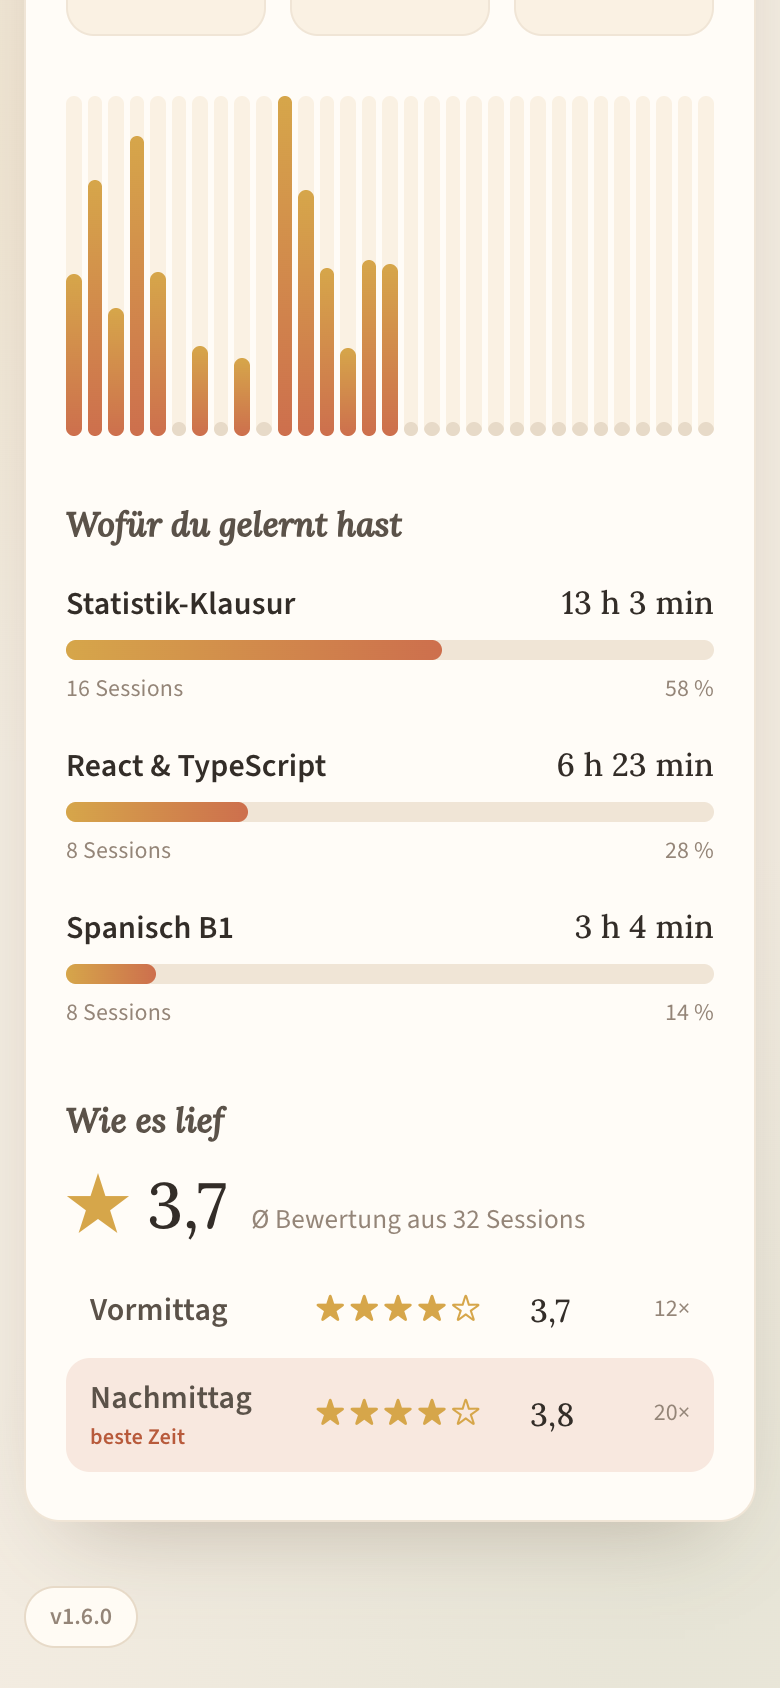
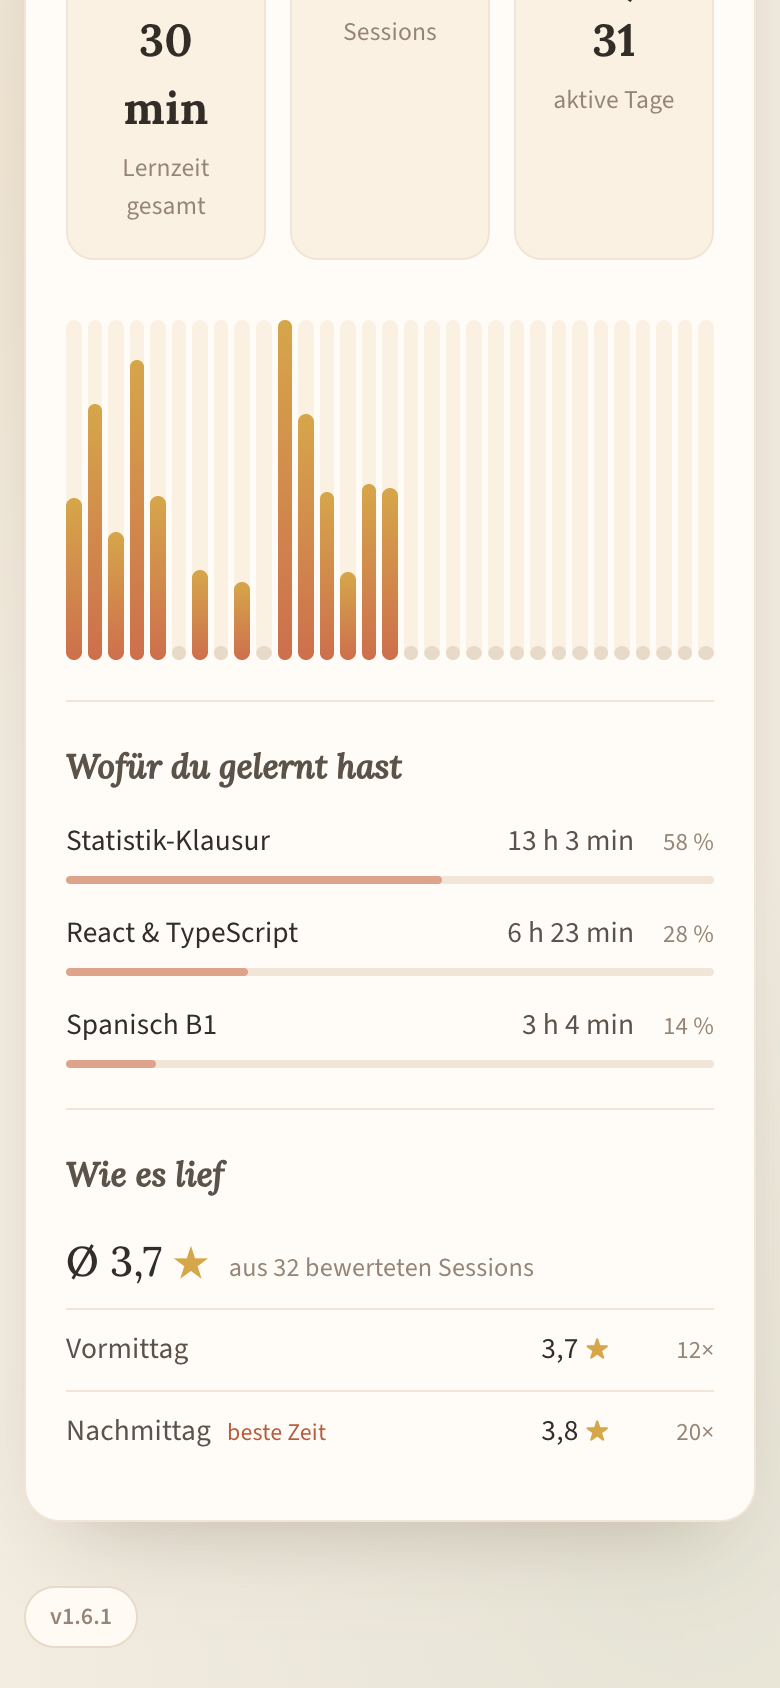
style: v1.6.1 – Statistik unten ruhiger, gleiche Breite in Woche und Monat
- "Wofür du gelernt hast": eine Zeile pro Projekt (Name, Zeit, Anteil in
  Grau), darunter ein 4-px-Balken in gedämpftem Akzent statt 10-px-Verlauf;
  Sessions-Anzahl nur noch im Tooltip.
- "Wie es lief": Ø-Wert in normaler Größe, Tageszeiten als schlichte Liste
  mit Haarlinien, ein kleiner Stern pro Zeile statt fünf, keine farbige
  Fläche mehr für die beste Zeit.
- Beide Abschnitte durch eine feine Linie abgesetzt.
- Fix: .stats-card hat eine feste Breite (760 px, max. 100 %). Vorher
  richtete sie sich nach dem Inhalt und sprang beim Wechsel Woche/Monat
  (555 ↔ 539 px auf Desktop/Tablet).

diff --git a/frontend/src/style.css b/frontend/src/style.css
@@ -779,9 +779,22 @@ button.danger:hover { color: #93362b; }
 .break-card .progress-ring-content .ring-time { color: var(--break-accent); }
 
 /* Stats view */
-.stats-card { max-width: 760px; }
+/* Feste Breite statt "so breit wie der Inhalt": sonst ist die Karte in Wochen-
+   und Monatsansicht unterschiedlich breit und springt beim Umschalten. Auf
+   schmalen Screens begrenzt max-width auf die verfügbare Breite. */
+.stats-card { width: 760px; max-width: 100%; }
+
+/* Untere Abschnitte bewusst ruhig: eine gedämpfte Akzentfarbe, dünne Linien,
+   keine Flächen — die Zahlen sollen sprechen, nicht die Deko */
+.stats-section {
+  display: flex;
+  flex-direction: column;
+  gap: 14px;
+  padding-top: 20px;
+  border-top: 1px solid var(--border-soft);
+}
 .stats-section-heading {
-  margin: 12px 0 -6px;
+  margin: 0;
   font-family: var(--serif);
   font-style: italic;
   font-size: 1.05rem;
@@ -790,37 +803,37 @@ button.danger:hover { color: #93362b; }
 }
 
 /* Statistik: Lernzeit pro Projekt */
-.project-breakdown { list-style: none; margin: 0; padding: 0; display: flex; flex-direction: column; gap: 16px; }
+.project-breakdown { list-style: none; margin: 0; padding: 0; display: flex; flex-direction: column; gap: 14px; }
 .project-breakdown li { display: flex; flex-direction: column; gap: 6px; }
-.breakdown-head { display: flex; justify-content: space-between; align-items: baseline; gap: 12px; }
-.breakdown-name { font-weight: 600; color: var(--text); min-width: 0; }
-.breakdown-tag { margin-left: 8px; font-size: 0.72rem; font-weight: 500; color: var(--muted); }
-.breakdown-time { font-family: var(--serif); color: var(--text); white-space: nowrap; }
-.breakdown-track { height: 10px; border-radius: 999px; background: var(--border-soft); overflow: hidden; }
-.breakdown-bar { height: 100%; border-radius: inherit; background: linear-gradient(90deg, var(--gold), var(--accent)); }
-.breakdown-meta { display: flex; justify-content: space-between; font-size: 0.75rem; color: var(--muted); }
+.breakdown-head { display: flex; justify-content: space-between; align-items: baseline; gap: 12px; font-size: 0.92rem; }
+.breakdown-name { color: var(--text); min-width: 0; overflow: hidden; text-overflow: ellipsis; white-space: nowrap; }
+.breakdown-tag { margin-left: 6px; font-size: 0.72rem; color: var(--muted); }
+.breakdown-time { color: var(--text-soft); white-space: nowrap; font-variant-numeric: tabular-nums; }
+.breakdown-share { display: inline-block; min-width: 3.2em; text-align: right; font-size: 0.78rem; color: var(--muted); }
+.breakdown-track { height: 4px; border-radius: 999px; background: var(--border-soft); overflow: hidden; }
+.breakdown-bar { height: 100%; border-radius: inherit; background: rgba(205, 111, 77, 0.55); }
 
 /* Statistik: Auswertung der Sterne-Bewertungen */
-.rating-block { display: flex; flex-direction: column; gap: 14px; }
-.rating-summary { display: flex; align-items: baseline; flex-wrap: wrap; gap: 4px 12px; }
-.rating-value { font-family: var(--serif); font-size: 2rem; line-height: 1; color: var(--text); }
-.rating-star { color: var(--gold); }
-.rating-caption { color: var(--muted); font-size: 0.85rem; }
-.rating-daytimes { list-style: none; margin: 0; padding: 0; display: flex; flex-direction: column; gap: 4px; }
+.rating-block { display: flex; flex-direction: column; gap: 8px; }
+.rating-summary { margin: 0; display: flex; align-items: baseline; flex-wrap: wrap; gap: 2px 10px; }
+.rating-value { font-family: var(--serif); font-size: 1.3rem; color: var(--text); }
+.rating-star { color: var(--gold); font-size: 0.85em; }
+.rating-caption { color: var(--muted); font-size: 0.82rem; }
+.rating-daytimes { list-style: none; margin: 0; padding: 0; display: flex; flex-direction: column; }
 .rating-daytimes li {
   display: grid;
-  /* feste Spalten, damit Sterne/Wert/Anzahl über alle Zeilen bündig stehen */
-  grid-template-columns: minmax(0, 1fr) 96px 32px 36px;
-  align-items: center;
+  /* feste Spalten, damit Wert und Anzahl über alle Zeilen bündig stehen */
+  grid-template-columns: minmax(0, 1fr) 64px 40px;
+  align-items: baseline;
   gap: 12px;
-  padding: 8px 12px;
-  border-radius: 12px;
+  padding: 9px 0;
+  border-top: 1px solid var(--border-soft);
+  font-size: 0.92rem;
 }
-.rating-daytimes li.best { background: var(--accent-soft); }
-.rating-daytime-label { font-weight: 600; color: var(--text-soft); }
-.rating-daytime-value { font-family: var(--serif); color: var(--text); }
-.rating-best { display: block; font-size: 0.7rem; font-weight: 600; color: var(--accent-strong); }
-.rating-daytime-count { text-align: right; font-size: 0.75rem; color: var(--muted); white-space: nowrap; }
+.rating-daytime-label { color: var(--text-soft); }
+.rating-best { margin-left: 8px; font-size: 0.75rem; color: var(--accent-strong); }
+.rating-daytime-value { text-align: right; color: var(--text); font-variant-numeric: tabular-nums; }
+.rating-daytime-count { text-align: right; font-size: 0.78rem; color: var(--muted); }
 .period-toggle { display: flex; gap: 10px; }
 .period-toggle button { flex: 1; }
 

diff --git a/frontend/src/components/StatsView.jsx b/frontend/src/components/StatsView.jsx
@@ -34,12 +34,8 @@ const periodLabel = (period, days) => {
 
 const formatRating = (value) => value.toLocaleString('de-DE', { minimumFractionDigits: 1, maximumFractionDigits: 1 });
 
-const ratingStars = (value) => {
-  const full = Math.round(value);
-  return '★'.repeat(full) + '☆'.repeat(5 - full);
-};
-
-// Wofür im Zeitraum gelernt wurde: ein Balken pro Projekt, Anteil an der Gesamtzeit
+// Wofür im Zeitraum gelernt wurde: pro Projekt eine Zeile + dünner Anteilsbalken.
+// Bewusst schlicht — Sessions-Anzahl steht im Tooltip, nicht als eigene Zeile.
 function ProjectBreakdown({ projects, totalSeconds }) {
   if (projects.length === 0) return <p className="empty-hint">In diesem Zeitraum keine Sessions.</p>;
   return (
@@ -47,20 +43,19 @@ function ProjectBreakdown({ projects, totalSeconds }) {
       {projects.map((p) => {
         const share = totalSeconds ? Math.round((p.focus_seconds / totalSeconds) * 100) : 0;
         return (
-          <li key={p.id}>
+          <li key={p.id} title={`${p.session_count} ${p.session_count === 1 ? 'Session' : 'Sessions'}`}>
             <div className="breakdown-head">
               <span className="breakdown-name">
                 {p.name}
                 {p.archived && <span className="breakdown-tag">archiviert</span>}
               </span>
-              <span className="breakdown-time">{formatDuration(p.focus_seconds)}</span>
+              <span className="breakdown-time">
+                {formatDuration(p.focus_seconds)}
+                <span className="breakdown-share">{share} %</span>
+              </span>
             </div>
             <div className="breakdown-track">
               <div className="breakdown-bar" style={{ width: `${Math.max(2, share)}%` }} />
-            </div>
-            <div className="breakdown-meta">
-              <span>{p.session_count} {p.session_count === 1 ? 'Session' : 'Sessions'}</span>
-              <span>{share} %</span>
             </div>
           </li>
         );
@@ -80,21 +75,20 @@ function RatingSummary({ rating }) {
     : null;
   return (
     <div className="rating-block">
-      <div className="rating-summary">
-        <span className="rating-value"><span className="rating-star">★</span> {formatRating(rating.average)}</span>
+      <p className="rating-summary">
+        <span className="rating-value">Ø {formatRating(rating.average)} <span className="rating-star">★</span></span>
         <span className="rating-caption">
-          Ø Bewertung aus {rating.count} {rating.count === 1 ? 'Session' : 'Sessions'}
+          aus {rating.count} {rating.count === 1 ? 'bewerteten Session' : 'bewerteten Sessions'}
         </span>
-      </div>
+      </p>
       <ul className="rating-daytimes">
         {rating.byDaytime.map((t) => (
-          <li key={t.key} className={best?.key === t.key ? 'best' : ''}>
+          <li key={t.key}>
             <span className="rating-daytime-label">
               {t.label}
-              {best?.key === t.key && <small className="rating-best">beste Zeit</small>}
+              {best?.key === t.key && <span className="rating-best">beste Zeit</span>}
             </span>
-            <span className="rating">{ratingStars(t.average)}</span>
-            <span className="rating-daytime-value">{formatRating(t.average)}</span>
+            <span className="rating-daytime-value">{formatRating(t.average)} <span className="rating-star">★</span></span>
             <span className="rating-daytime-count">{t.count}×</span>
           </li>
         ))}
@@ -210,11 +204,15 @@ export default function StatsView({ onBack }) {
 
       {/* Fallbacks: offline kann noch eine zwischengespeicherte Antwort vom
           Server vor v1.6.0 kommen, die diese Felder nicht kennt */}
-      <h2 className="stats-section-heading">Wofür du gelernt hast</h2>
-      <ProjectBreakdown projects={stats.projects || []} totalSeconds={stats.totalFocusSeconds} />
+      <section className="stats-section">
+        <h2 className="stats-section-heading">Wofür du gelernt hast</h2>
+        <ProjectBreakdown projects={stats.projects || []} totalSeconds={stats.totalFocusSeconds} />
+      </section>
 
-      <h2 className="stats-section-heading">Wie es lief</h2>
-      <RatingSummary rating={stats.rating || { count: 0, byDaytime: [] }} />
+      <section className="stats-section">
+        <h2 className="stats-section-heading">Wie es lief</h2>
+        <RatingSummary rating={stats.rating || { count: 0, byDaytime: [] }} />
+      </section>
     </div>
   );
 }

diff --git a/frontend/src/changelog.js b/frontend/src/changelog.js
@@ -1,8 +1,16 @@
 // Manuell gepflegt — bei jedem sichtbaren Release hier oben einen neuen Eintrag
 // ergänzen und APP_VERSION (+ "version" in package.json) hochzählen.
-export const APP_VERSION = '1.6.0';
+export const APP_VERSION = '1.6.1';
 
 export const CHANGELOG = [
+  {
+    version: '1.6.1',
+    date: '2026-10-16',
+    notes: [
+      'Statistik: "Wofür du gelernt hast" und "Wie es lief" sind jetzt ruhiger und aufgeräumter, mit dünnen Balken in einer Farbe, weniger Text und ohne farbige Flächen',
+      'Fix: Die Statistik ist in Wochen- und Monatsansicht gleich breit und springt beim Umschalten nicht mehr'
+    ]
+  },
   {
     version: '1.6.0',
     date: '2026-10-16',
